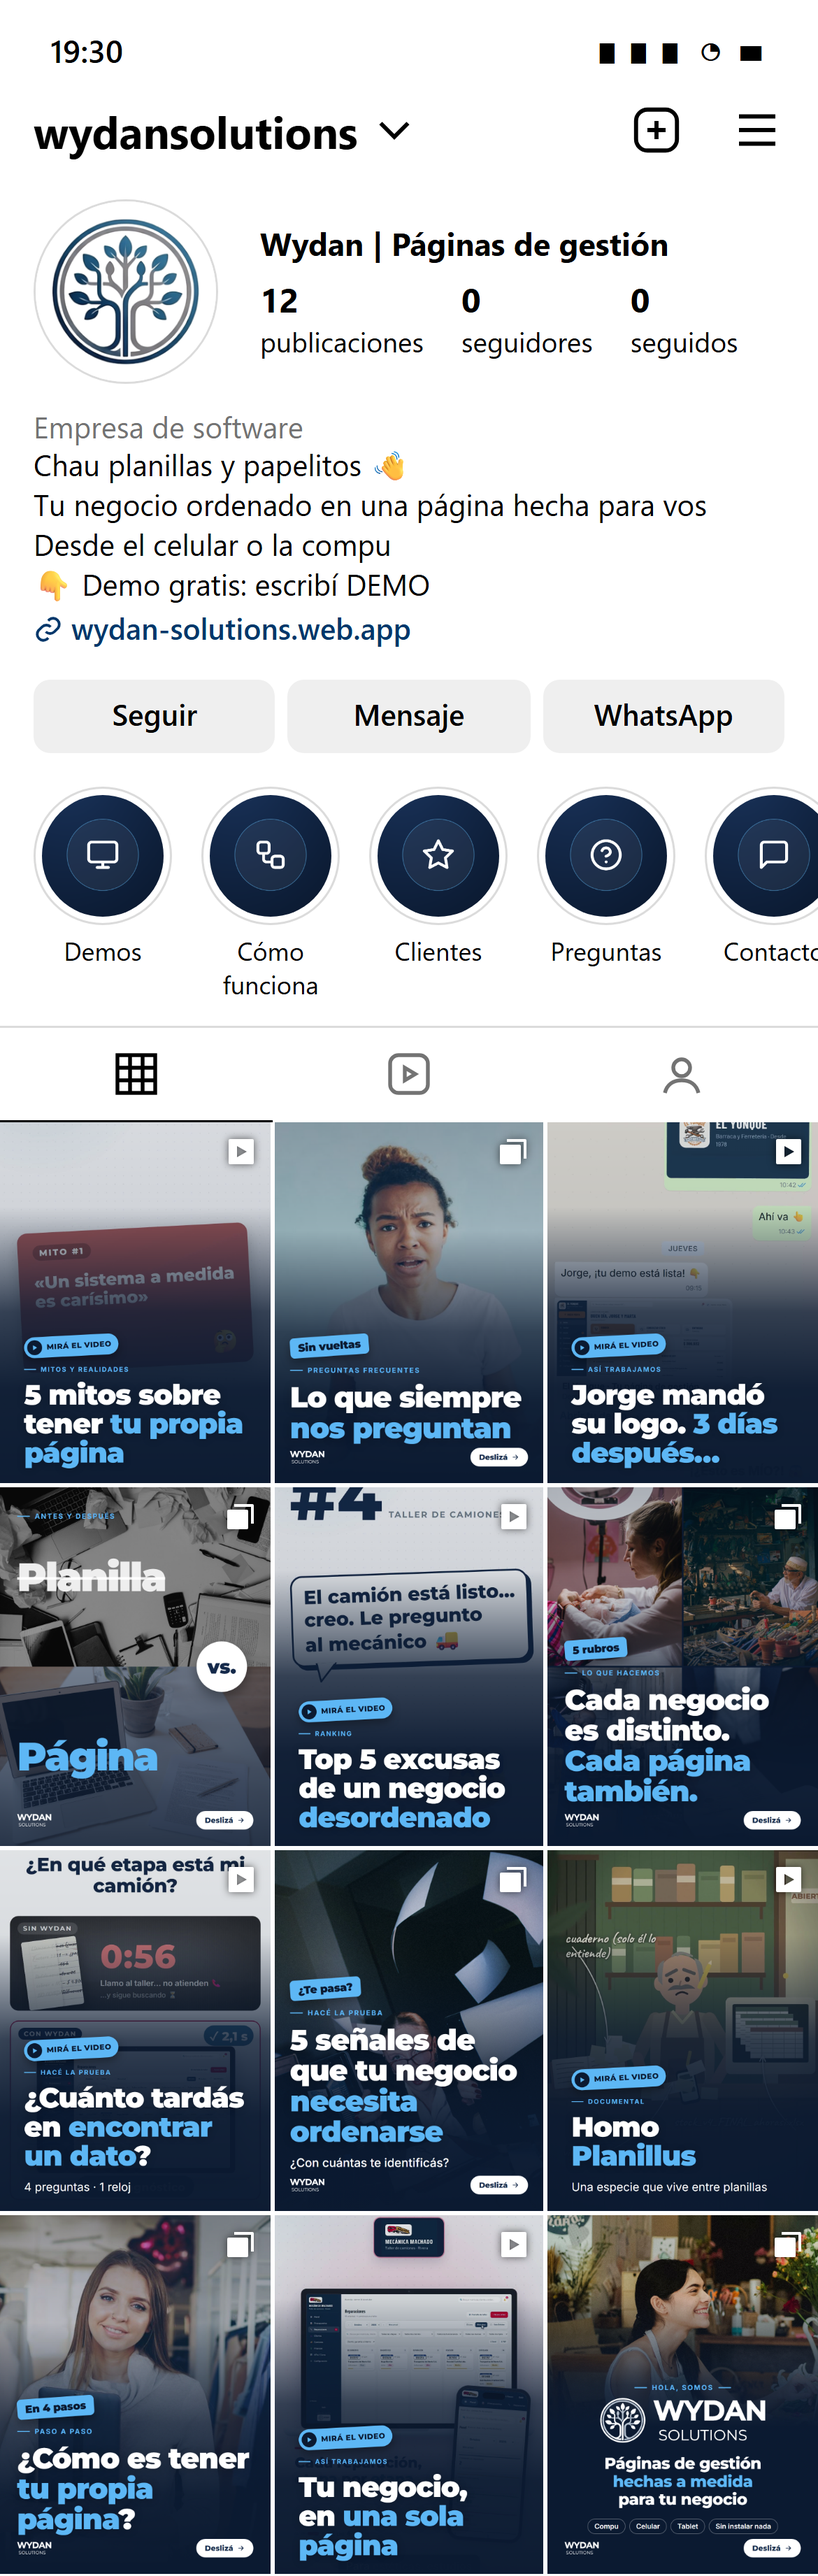
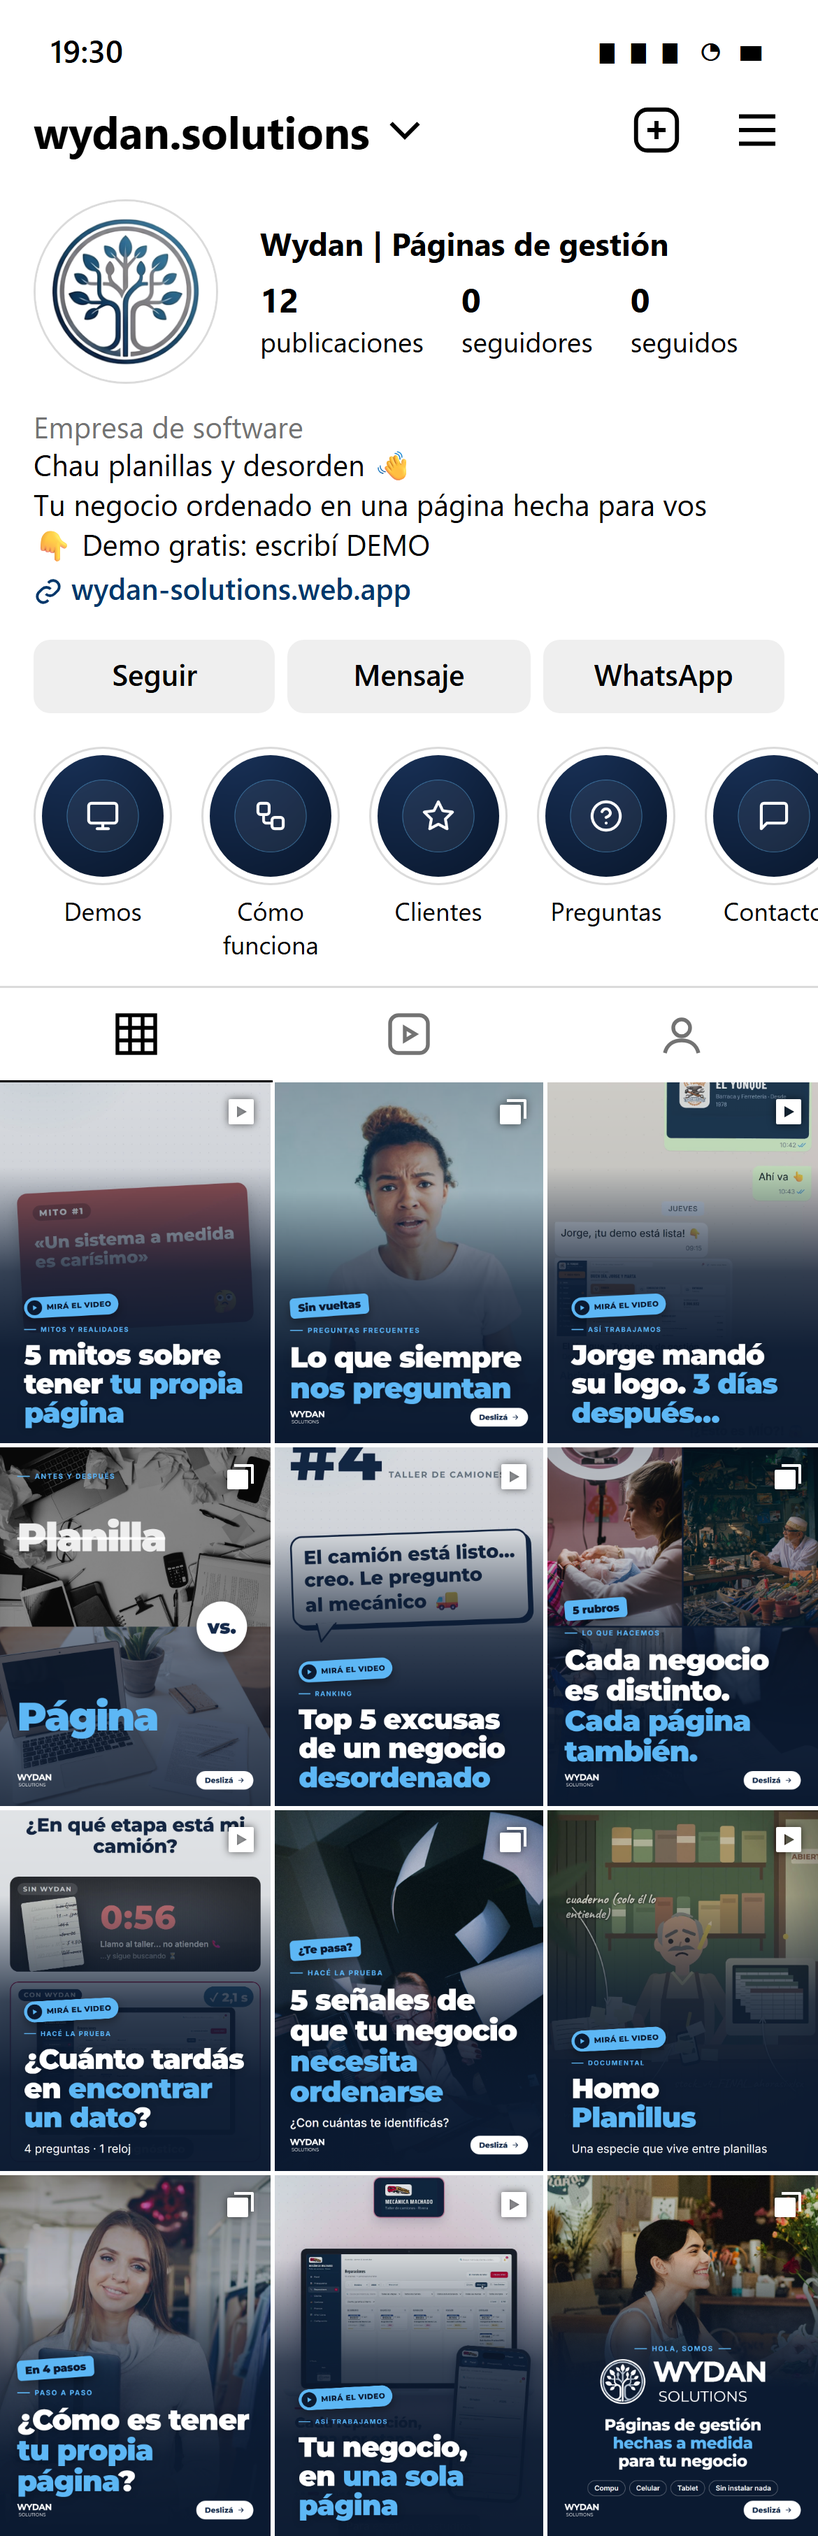
Perfil real: usuario @wydan.solutions y bio sin «papelitos»

diff --git a/publicaciones.js b/publicaciones.js
@@ -269,7 +269,7 @@ const DESTACADAS = [
 // acá van las tareas que no son publicar. tipo: tarea · publicidad · revision · aviso
 const CRONOGRAMA = [
   { fecha: '2026-10-28', tipo: 'revision', titulo: 'Revisar las publicaciones y los videos', detalle: 'Mirar la vista previa entera y avisar qué cambiar.' },
-  { fecha: '2026-10-29', tipo: 'tarea', titulo: 'Crear la cuenta de Instagram', detalle: 'Con wydan.solutions@gmail.com · usuario @wydansolutions · pasarla a cuenta profesional → Empresa → categoría «Empresa de software».' },
+  { fecha: '2026-10-29', tipo: 'tarea', titulo: 'Crear la cuenta de Instagram', detalle: 'Con wydan.solutions@gmail.com · usuario @wydan.solutions · pasarla a cuenta profesional → Empresa → categoría «Empresa de software».' },
   { fecha: '2026-10-29', tipo: 'tarea', titulo: 'Conectar Facebook y WhatsApp Business', detalle: 'Centro de cuentas: sumar la página de Facebook de Wydan. Agregar el botón de WhatsApp (097 096 996). Sin esto no se puede hacer publicidad.' },
   { fecha: '2026-10-30', tipo: 'tarea', titulo: 'Completar el perfil', detalle: 'Foto de perfil, nombre «Wydan | Páginas de gestión», categoría «Empresa de software», bio B y link a la web.' },
   { fecha: '2026-10-30', tipo: 'tarea', titulo: 'Armar las 5 historias destacadas', detalle: 'Subir una historia para cada una (Demos, Cómo funciona, Clientes, Preguntas, Contacto), guardarla como destacada y ponerle su tapa.' },

diff --git a/index.html b/index.html
@@ -116,16 +116,15 @@
   <div class="arriba">
     <div class="telefono">
       <div class="perfil">
-        <div class="usuario">wydansolutions</div>
+        <div class="usuario">wydan.solutions</div>
         <div class="fila-perfil">
           <img src="imagenes/perfil/foto-de-perfil.png" alt="">
           <div class="numeros"><div><b>12</b>publicaciones</div><div><b>—</b>seguidores</div><div><b>—</b>seguidos</div></div>
         </div>
         <div class="nombre">Wydan | Páginas de gestión</div>
         <div class="categoria">Empresa de software</div>
-        <div class="bio">Chau planillas y papelitos 👋
+        <div class="bio">Chau planillas y desorden 👋
 Tu negocio ordenado en una página hecha para vos
-Desde el celular o la compu
 👇 Demo gratis: escribí DEMO</div>
         <div class="link">🔗 Web de Wydan</div>
         <div class="botones"><span>Seguir</span><span>Mensaje</span><span>WhatsApp</span></div>
@@ -175,7 +174,7 @@ Desde el celular o la compu
   <div id="publicaciones"></div>
 </div>
 
-<script src="publicaciones.js?v=202610291726"></script>
+<script src="publicaciones.js?v=202610291735"></script>
 <script>
   const VIDEOS = 'videos/';
   const carpeta = p => `imagenes/${String(p.n).padStart(2, '0')}-${p.id}/`;
